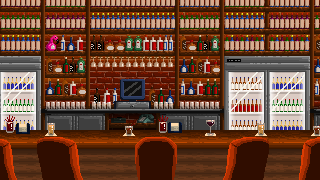
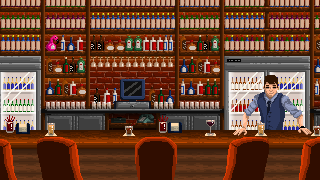
Add barkeeper and pedestrian graphics

Changed region(s): [[0.7188, 0.4167, 0.9688, 0.75]]

diff --git a/font.cpp b/font.cpp
@@ -17,7 +17,7 @@ std::map<std::pair<std::string,Uint8>,SDL_Texture*> loaded_texts;
 SDL_Texture* text_to_texture(std::string s, Uint8 brightness)
 {
     std::pair<std::string,Uint8> p = {s, brightness};
-    if (!loaded_texts.count(p)) loaded_texts[p] = SDL_CreateTextureFromSurface(renderer,TTF_RenderText_Solid(font, s.c_str(), {brightness,brightness,brightness,255}));
+    if (!loaded_texts.count(p)) loaded_texts[p] = SDL_CreateTextureFromSurface(renderer,TTF_RenderUTF8_Solid(font, s.c_str(), {brightness,brightness,brightness,255}));
     return loaded_texts[p];
 }
 

diff --git a/background.cpp b/background.cpp
@@ -36,7 +36,7 @@ bool add_new_backgrounds()
         auto b = new Background(walls_end_at,0,"wall",true);
 
         walls_since_bar++;
-        if (walls_since_bar > 40-player->drunk_level*5)
+        if (walls_since_bar > 25-player->drunk_level*5)
         {
             b->cur_anim_frame=2;
             new Entrance(walls_end_at+65,0,30,b->size[1]+80);
